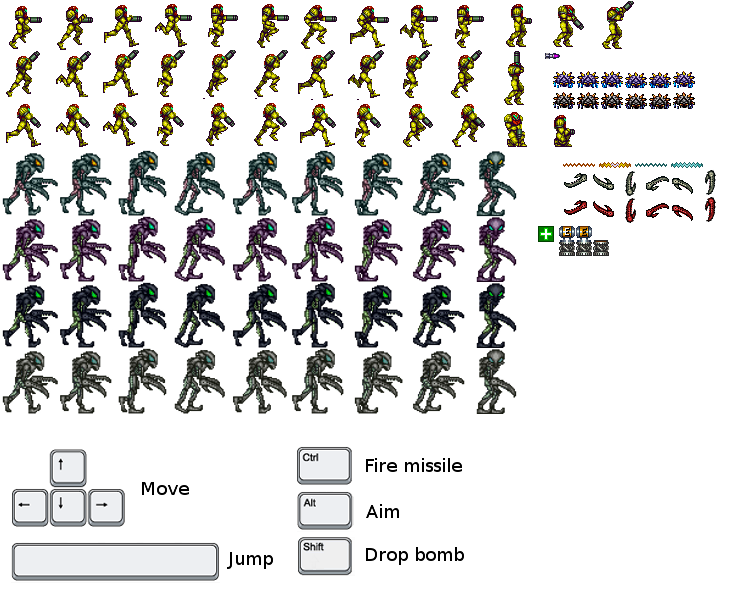
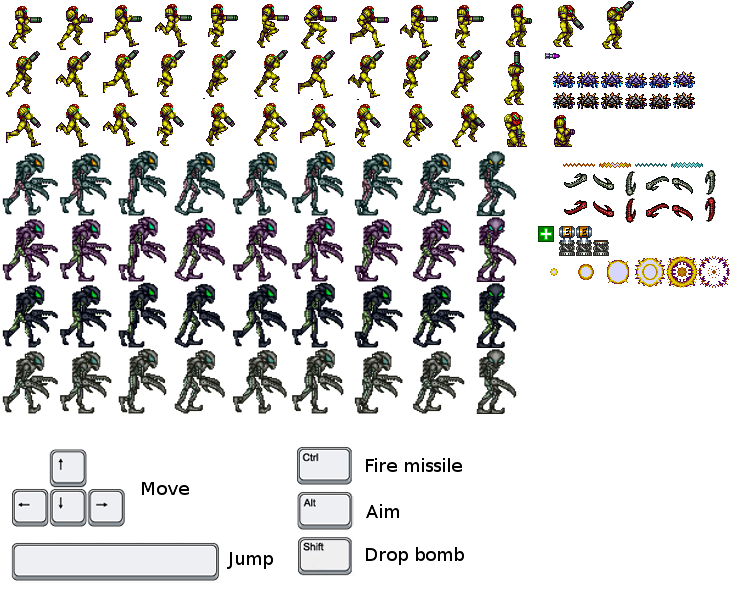
projectile explosion

Changed region(s): [[0.7836, 0.4271, 1.0, 0.4881]]

diff --git a/nitroid.js b/nitroid.js
@@ -50,6 +50,7 @@ var nitroid = new function() {
 		var t = 0;
 		var gameover = false;
 		var is_paused = false;
+		var explosion_length = 0.13; /* in seconds */
 
 		/* camera */
 		var xcam = 0;
@@ -156,6 +157,11 @@ var nitroid = new function() {
 				tile_size: new vector(16, 10),
 				frames: 1
 			},
+			explosion: {
+				tile_start: new vector(538, 256),
+				tile_size: new vector(32, 32),
+				frames: 6
+			},
 
 			/**
 			 * Items
@@ -253,7 +259,7 @@ var nitroid = new function() {
 			animation: animations.missile,
 			damage: 20.0,
 			speed: 9.0,
-			blast: 25.0
+			blast: 45.0
 		},
 		{
 			animation: animations.space_pirate_claw1,
@@ -891,7 +897,7 @@ var nitroid = new function() {
 		}
 
 		var explode_projectile = function(i){
-				projectiles[i].explode = 1.2;
+				projectiles[i].explode = explosion_length;
 				var blast = projectile_types[projectiles[i].type].blast;
 				sx = Math.ceil(blast / horizontal_tiles);
 				sy = Math.ceil(blast / vertical_tiles);
@@ -914,7 +920,7 @@ var nitroid = new function() {
 				var p = projectiles[i];
 				if(projectiles[i].explode > 0) {
 					projectiles[i].explode -= dt;
-					if(projectiles[i].explode < 1.0) {
+					if(projectiles[i].explode < 0.0) {
 						//Despawn
 						projectiles.splice(i, 1);
 					}
@@ -1245,9 +1251,10 @@ var nitroid = new function() {
 				context.translate(projectiles[i].pos.x * tile_width, (projectiles[i].pos.y  - depth + y_screencenter)  * tile_height);
 				if(projectiles[i].explode > 0) {
 					var blast = projectile_types[projectiles[i].type].blast;
-					var phase = Math.floor(Math.sin(projectiles[i].explode * 35) * 127 + 127);
-					context.fillStyle = 'rgb(255,'+phase+',0)';
-					context.fillRect(-blast * 0.5, -blast * 0.5, blast, blast);
+					var s = 1.0 - projectiles[i].explode / explosion_length;
+					var frame = Math.floor(s * animations.explosion.frames);
+					context.scale(blast / animations.explosion.tile_size.x, blast / animations.explosion.tile_size.y);
+					render_animation({ animation: animations.explosion, frame: frame, facing: 1, blink: 0.0});
 				} else {
 					context.rotate(projectiles[i].rotation);
 					render_animation({ animation: projectile_types[projectiles[i].type].animation, frame: projectiles[i].frame, facing: 1, blink: 0.0});
